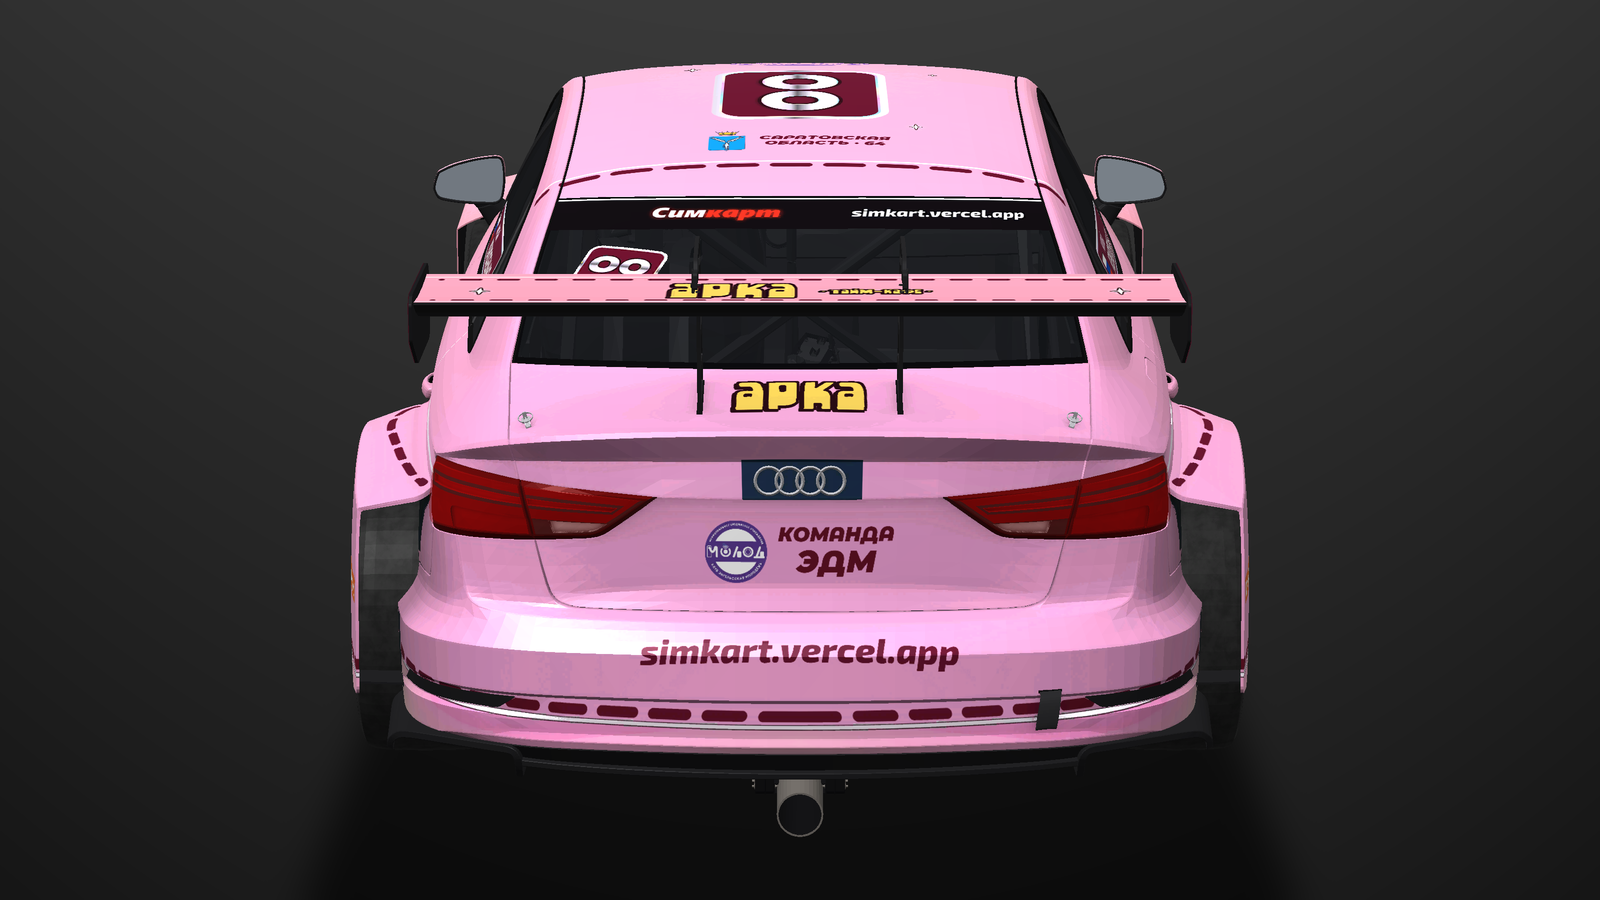
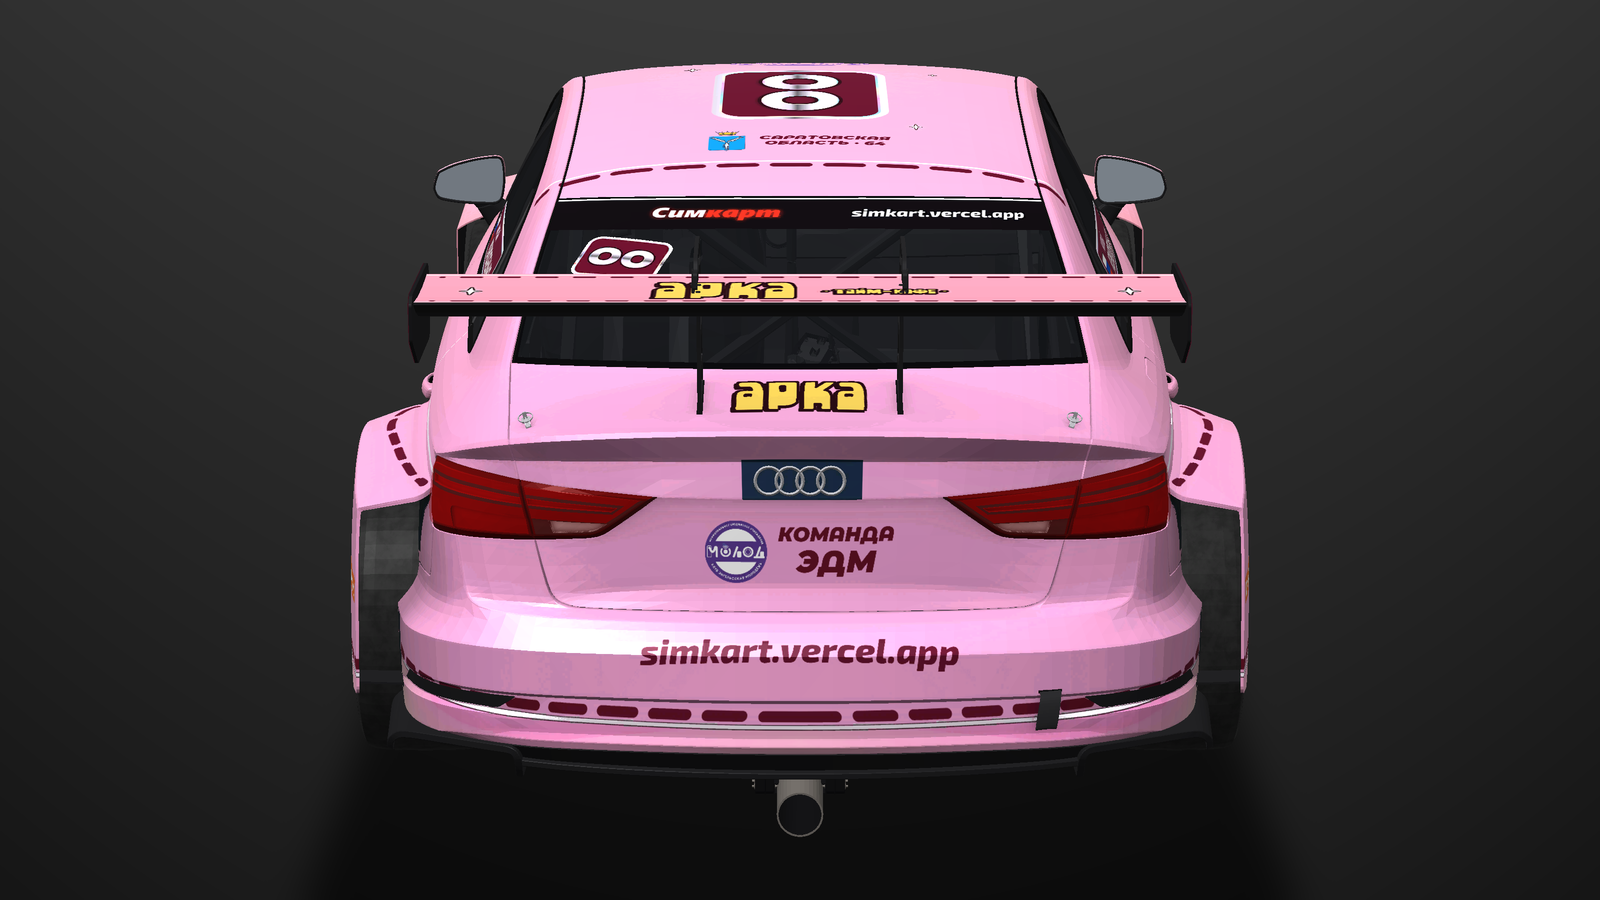
Audi RS3 concepts: WIP updates from design workflow
Claude-Session: https://claude.ai/code/session_01HATGXXp4TQ2kDfXDYCjxeY

Changed region(s): [[0.2812, 0.2489, 0.5938, 0.3422], [0.5938, 0.28, 0.7188, 0.3422]]

diff --git a/livery/rs3_concepts/pop_pig/make_skin.py b/livery/rs3_concepts/pop_pig/make_skin.py
@@ -311,6 +311,17 @@ def ru_flag(w, ow=None):
     return t
 
 
+def saratov_flag(w, ow=None):
+    """Флаг Саратовской области (как на BR03): белое поле 2/3 над красной полосой 1/3, чёрный кант."""
+    h = int(w * 2 / 3)
+    ow = max(2, w // 24) if ow is None else ow
+    t = Image.new("RGBA", (w + 2 * ow, h + 2 * ow), INK + (255,))
+    d = ImageDraw.Draw(t)
+    d.rectangle([ow, ow, ow + w - 1, ow + h * 2 / 3 - 1], fill=WHITE + (255,))
+    d.rectangle([ow, ow + h * 2 / 3, ow + w - 1, ow + h - 1], fill=(213, 43, 30, 255))
+    return t
+
+
 # ---------------------------------------------------------------- комикс-элементы
 def bubble(txt, h, tail="bl", fill=WHITE):
     """Комикс-пузырь с подписью отруба: овал-«подушка», жирный контур, хвостик к отрубу."""
@@ -632,6 +643,10 @@ def make_body(G, src, shade, rings, car):
     exclude = G.parts_mask(["mirror", "hidden", "door_handle", "front_splitter", "rear_diffuser_band"])
     for sdc in F["cuts"]:
         B.fill(np.clip((0.0065 - np.abs(sdc)) * D + 0.5, 0, 1) * dash, INK, body & ~exclude & (G.z > 0.30))
+    # торец расширителя заднего крыла (ступенька, смотрит назад): сплошной комикс-чёрный —
+    # линия «брюха» по нему шла рваным зигзагом
+    step = G.parts_mask(["rear_panel"]) & (np.abs(G.x) > 0.745) & (G.y < 1.98)
+    B.fill(step.astype(np.float32), INK)
     # зеркала — цвет акцента с чёрным
     mir = G.parts_mask(["mirror"])
     B.fill(mir.astype(np.float32), acc)
@@ -691,10 +706,13 @@ def place_sponsors(B, car):
     B.put("пузырь КОРЕЙКА крыша", bubble("КОРЕЙКА", int(0.08 * P), "bl"), "top", (0.0, -0.165, 1.38),
           height_m=0.10, parts=["roof"], max_angle=40)
     # ---- корма
-    reg = stack([solid(text_h("САРАТОВСКАЯ ОБЛАСТЬ", F_SPON, int(0.038 * P)), INK),
-                 solid(text_h("РЕГИОН 64", F_SPON, int(0.028 * P), track=0.12), INK)], int(0.012 * P))
-    B.put("Саратовская обл. крышка багажника", row([saratov_coa(int(0.11 * P)), reg], int(0.03 * P)), "top_rear",
-          (0, 2.0, 1.04), height_m=0.15, parts=["trunk_lid"], max_angle=60, search=(0.05, 0.06), shrink_to=0.6)
+    # крышка багажника: между стойками антикрыла (x = ±0.208 м) — герб + флаг области + «64»,
+    # чтобы стойки не перечёркивали надпись при взгляде сзади
+    r64 = stack([solid(text_h("РЕГИОН", F_SPON, int(0.020 * P), track=0.12), INK),
+                 solid(text_h("64", F_SPON, int(0.060 * P)), INK)], int(0.008 * P))
+    B.put("Саратовская обл. крышка багажника",
+          row([saratov_flag(int(0.075 * P)), saratov_coa(int(0.11 * P)), r64], int(0.022 * P)), "top_rear",
+          (0, 1.985, 1.05), width_m=0.30, parts=["trunk_lid"], max_angle=60, search=(0.0, 0.03), shrink_to=0.75)
     edm = stack([solid(text_h("КОМАНДА", F_SPON, int(0.030 * P), track=0.1), INK),
                  solid(text_h("ЭДМ", F_SPON, int(0.075 * P)), INK)], int(0.01 * P))
     B.put("Команда ЭДМ задняя панель", row([mbu_logo(int(0.12 * P)), edm], int(0.03 * P)), "rear",
@@ -704,6 +722,9 @@ def place_sponsors(B, car):
                      int(0.03 * P), int(0.014 * P), INK, WHITE, max(3, int(0.004 * P)))
     B.put("Симкарт + ссылка задний бампер", sim_rear, "rear", (0.0, 2.25, 0.585), height_m=0.10,
           parts=["rear_bumper"], max_angle=60, search=(0.05, 0.05))
+    B.put("САРАТОВСКАЯ ОБЛАСТЬ задний бампер",
+          solid(text_h("САРАТОВСКАЯ ОБЛАСТЬ · РЕГИОН 64", F_SPON, int(0.03 * P)), INK), "rear",
+          (0.0, 2.25, 0.49), height_m=0.032, parts=["rear_bumper"], max_angle=60, search=(0.0, 0.02))
     # ---- перед
     B.put("номер 00 перед", number_plate("00", int(0.10 * P), acc), "front", (-0.52, -1.95, 0.50),
           height_m=0.10, parts=["front_bumper", "front_bumper_corner"], max_angle=55)
